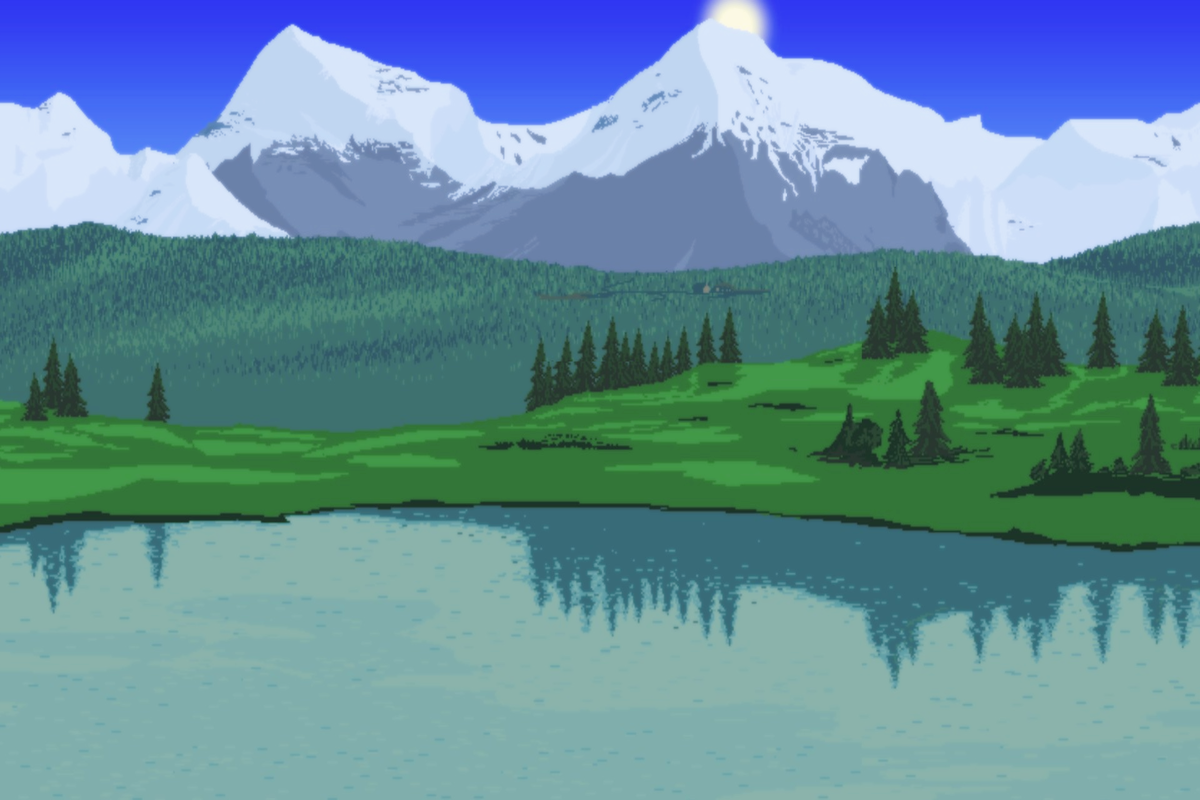
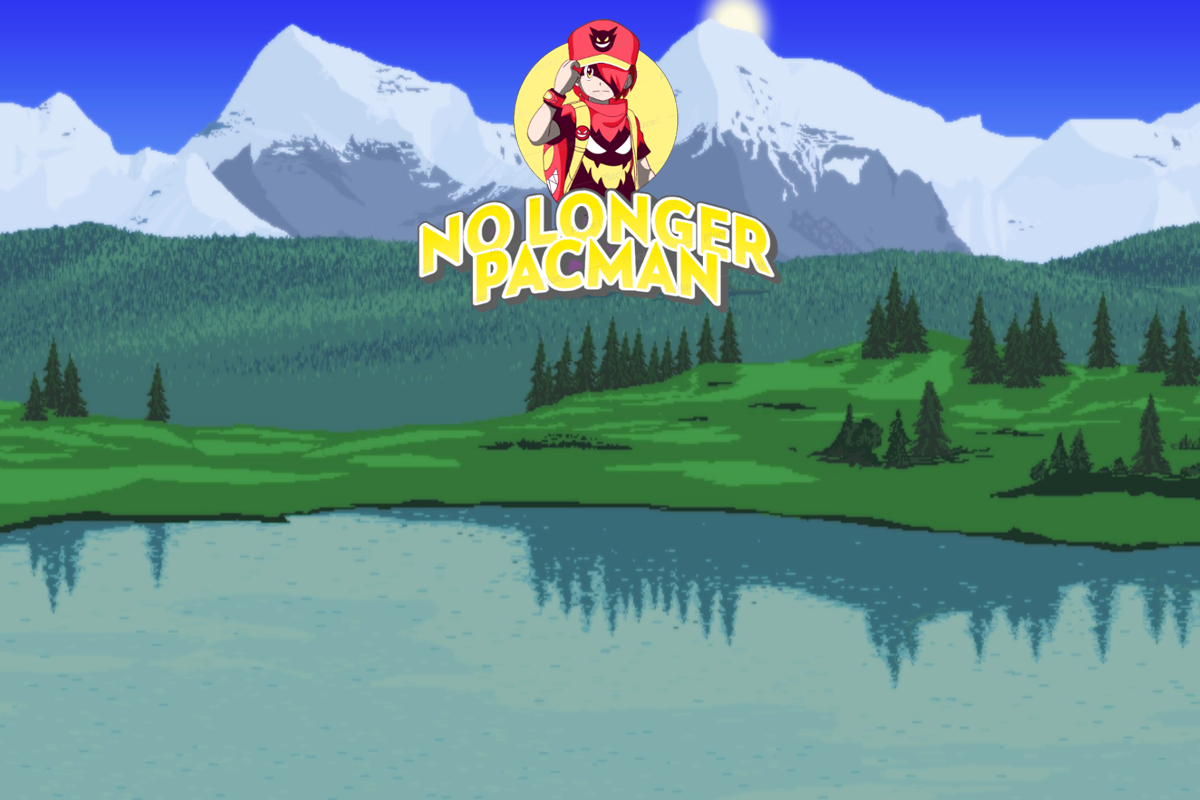
.

Changed region(s): [[0.3392, 0.0, 0.6475, 0.4062]]

diff --git a/main.cpp b/main.cpp
@@ -9,6 +9,7 @@ Object menu;
 Object background;
 TTF_Font* font;
 TTF_Font* menu_font;
+TTF_Font* menu_font_1;
 
 bool initSDL()
 {
@@ -43,9 +44,10 @@ bool initSDL()
             success = false;
         }
 
-        menu_font = TTF_OpenFont("font//Andy Bold.ttf", 70);
-        font = TTF_OpenFont("font//Andy Bold.ttf", 50);
-        if (font != NULL && menu_font != NULL) {
+        menu_font = TTF_OpenFont("font//Andy Bold.ttf", 50);
+        menu_font_1 = TTF_OpenFont("font//Andy Bold.ttf", 70);
+        font = TTF_OpenFont("font//Andy Bold.ttf", 40);
+        if (font != NULL && menu_font != NULL && menu_font_1 !=NULL) {
             success = true;
         }
 
@@ -62,6 +64,7 @@ void LoadBackground() {
 	background.Load_Image("img/white.png", g_screen);
 }
 int main(int argc, char* argv[]) {
+    srand(time(NULL));
 	if (initSDL() == false) return -1;
     LoadBackground();
 	gamemap g_map;
@@ -72,18 +75,34 @@ int main(int argc, char* argv[]) {
     g_menu_music = Mix_LoadMUS("sound/g_menu.mp3");
     Mix_VolumeMusic(80);
 
+
+    bool selected[2] = { 0,0 };
+    SDL_Event m_event;
+    int xm = 0;
+    int ym = 0;
+
 	Char player;
     player.SetSpawnPos(600, 350);
 	player.Load_Img("img/Down.png", g_screen);
 	player.animation();
+
+    for (int i = 0; i < 20; i++) {
+        g_map.SetRandomPos();
+    }
+    
 
     int score_count;
     Text score;
     score.SetColor(Text::BLACK);
 
     Text menu_tile;
-    menu_tile.SetColor(Text::WHITE);
+    menu_tile.SetColor(Text::SILVER);
+
+    Text menu_tile2;
+    menu_tile2.SetColor(Text::BLACK);
     
+    Text time;
+    time.SetColor(Text::BLACK);
 
 	bool quit = false;
     
@@ -111,11 +130,18 @@ int main(int argc, char* argv[]) {
         SDL_RenderClear(g_screen);
         menu.render(g_screen, NULL);
 
-        std::string str = "Press any key to continue";
-        menu_tile.SetText(str);
+        std::string str1 = "Start";
+        menu_tile.SetText(str1);
         menu_tile.LoadFromRenderText(menu_font, g_screen);
-        menu_tile.RenderText(g_screen, 280 , SCREEN_HEIGHT - 100);
+        menu_tile.RenderText(g_screen, 550 , SCREEN_HEIGHT - 400);
 
+
+        std::string str2 = "Quit";
+        menu_tile.SetText(str2);
+        menu_tile.LoadFromRenderText(menu_font, g_screen);
+        menu_tile.RenderText(g_screen, 560, SCREEN_HEIGHT - 300);
+
+ 
         SDL_RenderPresent(g_screen);
     }
     Mix_FreeMusic(g_menu_music);
@@ -142,7 +168,8 @@ int main(int argc, char* argv[]) {
 		SDL_RenderClear(g_screen);
 		background.render(g_screen, NULL);
 		Map new_map = g_map.getmap();
-		player.spawn(new_map);
+        player.spawn(new_map);  
+        
 		g_map.ChangeMap(new_map);
 		g_map.draw(g_screen);
 		player.Print(g_screen);
@@ -151,7 +178,16 @@ int main(int argc, char* argv[]) {
         std::string current_score = std::to_string(score_count);
         score.SetText(current_score);
         score.LoadFromRenderText(font, g_screen);
-        score.RenderText(g_screen, 0, 0);
+        score.RenderText(g_screen, 50 , 0);
+
+
+        std::string time_str = "Time Remaining : ";
+        UINT32 time_val = (SDL_GetTicks() / 1000);
+        UINT32 time_val_remaining = 30 - (SDL_GetTicks() / 1000);
+        time_str += std::to_string(time_val_remaining);
+        time.SetText(time_str);
+        time.LoadFromRenderText(font, g_screen);
+        time.RenderText(g_screen, 850 , 0);
 
 		SDL_RenderPresent(g_screen);
 	

diff --git a/Func.h b/Func.h
@@ -9,6 +9,9 @@
 #include <SDL_image.h>
 #include <SDL_mixer.h>
 #include <SDL_ttf.h>
+#include <stdlib.h>
+#include <time.h>
+
 
 static SDL_Window* g_window = NULL;
 static SDL_Renderer* g_screen = NULL;
@@ -30,6 +33,7 @@ const int RENDER_DRAW_COLOR = 0xff;
 #define FRAME_COUNT 4
 #define Char_speed 0.45
 #define POKE_BALL 6
+
 
 static Mix_Music* g_music = NULL;
 static Mix_Chunk* g_eff = Mix_LoadWAV("sound//Collect.wav");

diff --git a/Character.h b/Character.h
@@ -26,7 +26,9 @@ public:
 	void mapcheck(Map& map);
 	void spawn(Map& map);
 	void IncreaseScore();
-	void SetRandomPos(Map& map);
+	void Col() {
+		is_col = true;
+	}
 	int GetScore();
 	enum movement {
 		move_right = 0,
@@ -52,6 +54,8 @@ private:
 	int status;
 
 	int score;
+
+	bool is_col;
 };
 
 #endif

diff --git a/map.cpp b/map.cpp
@@ -76,3 +76,13 @@ Map gamemap::getmap() {
 void gamemap::ChangeMap(Map new_map) {
 	gmap = new_map;
 }
+
+void gamemap::SetRandomPos() {
+	int x, y;
+	do {
+		x = rand() % 24 + 1;
+		y = rand() % 16 + 1;
+	} while (gmap.tile[y][x] != 3);
+
+	gmap.tile[y][x] = POKE_BALL;
+} 

diff --git a/map.h b/map.h
@@ -24,7 +24,7 @@ public:
 	void draw(SDL_Renderer* screen);
 	Map getmap();
 	void ChangeMap(Map new_map);
-
+	void SetRandomPos();
 private:
 	Map gmap;
 	Object tilemap[MAX_TILE];

diff --git a/Func.cpp b/Func.cpp
@@ -1,1 +1,2 @@
 #include "Func.h"
+
